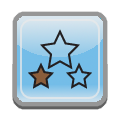
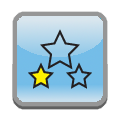
Add colors to world view

Changed region(s): [[0.15, 0.225, 0.85, 0.825], [0.25, 0.55, 0.425, 0.725]]

diff --git a/Color Match/SingleWorldViewController.m b/Color Match/SingleWorldViewController.m
@@ -40,9 +40,54 @@
         self.worldId = worldId;
         self.parentWorldController = parentWorldController;
         
-        self.view.backgroundColor = [UIColor colorWithRed:(139/255.0) green:(204/255.0) blue:(112/255.0) alpha:1];
+        // TODO: lindach
+        self.view.backgroundColor = [self getBackgroundColorForWorld:worldId];
     }
     return self;
+}
+
+- (UIColor*)getBackgroundColorForWorld:(int)worldId
+{
+    switch (worldId)
+    {
+        case 1:
+        case 7:
+            // Aqua
+            return [UIColor colorWithRed:(124/255.0) green:(190/255.0) blue:(204/255.0) alpha:1];
+            break;
+            
+        case 2:
+        case 8:
+            // Yellow
+            return [UIColor colorWithRed:(255/255.0) green:(233/255.0) blue:(127/255.0) alpha:1];
+            break;
+            
+        case 3:
+        case 9:
+            // Red
+            return [UIColor colorWithRed:(255/255.0) green:(186/255.0) blue:(186/255.0) alpha:1];
+            break;
+            
+        case 4:
+        case 10:
+            // Green
+            return [UIColor colorWithRed:(161/255.0) green:(204/255.0) blue:(142/255.0) alpha:1];
+            break;
+        
+        case 5:
+            // Orange
+            return [UIColor colorWithRed:(255/255.0) green:(178/255.0) blue:(147/255.0) alpha:1];
+            break;
+        
+        case 6:
+            // Purple
+            return [UIColor colorWithRed:(190/255.0) green:(163/255.0) blue:(204/255.0) alpha:1];
+            break;
+            
+        default:
+            return [UIColor colorWithRed:(255/255.0) green:(255/255.0) blue:(255/255.0) alpha:1];;
+            break;
+    }
 }
 
 - (void)viewDidLoad
@@ -57,7 +102,6 @@
     [self renderWorldTitleDisplay];
     if (self.worldId < 10)
     {
-        // TODO: add support for other worlds
         [self renderLevelsDisplay];
     }
 }
@@ -80,11 +124,12 @@
 
 - (void)renderWorldTitleDisplay
 {
-    UILabel *worldTitle = [[UILabel alloc] initWithFrame:CGRectMake(0, 0, 50, 20)];
+    UILabel *worldTitle = [[UILabel alloc] initWithFrame:CGRectMake(0, 0, self.view.frame.size.width, 50)];
     worldTitle.font = [UIFont fontWithName:@"Futura-Medium" size:16.0];
+    worldTitle.textColor = [UIColor colorWithRed:(64/255.0) green:(64/255.0) blue:(64/255.0) alpha:1];
     worldTitle.text = [NSString stringWithFormat: @"World %d", self.worldId];
     [worldTitle sizeToFit];
-    [worldTitle setCenter:CGPointMake(self.view.frame.size.width / 2, 23)];
+    [worldTitle setCenter:CGPointMake(self.view.frame.size.width / 2, 42)];
     [self.view addSubview:worldTitle];
 }
 
@@ -105,7 +150,7 @@
     int size = 60;
     int heightBetweenRows = 95;
     int widthBetweenCols = 75;
-    int levelNameYOffset = 57;
+    int levelNameYOffset = 55;
     for (int i=0; i<totalLevelsToRender; i++)
     {
         // Figure out if level is complete
@@ -126,6 +171,7 @@
         // Add level text
         UILabel *levelName = [[UILabel alloc] initWithFrame:CGRectMake(xOffset+20, yOffset+levelNameYOffset, size, 25)];
         levelName.font = [UIFont fontWithName:@"Futura-Medium" size:12.0];
+        levelName.textColor = [UIColor colorWithRed:(64/255.0) green:(64/255.0) blue:(64/255.0) alpha:1];
         NSMutableString *levelString = [UserData getLevelString:self.worldId levelId:levelId];
         levelName.text = levelString;
         [self.view addSubview:levelName];
